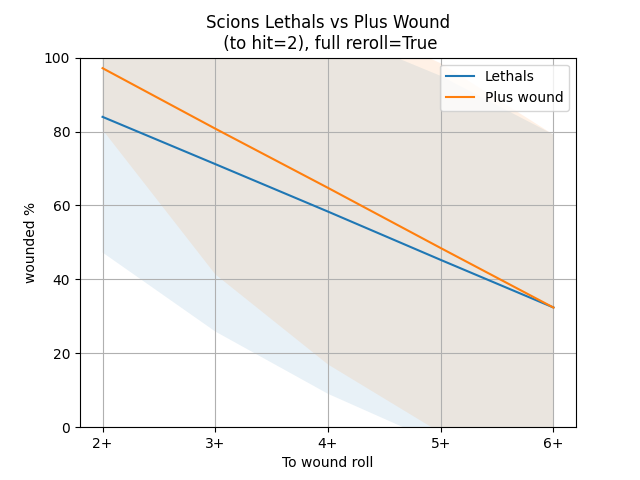
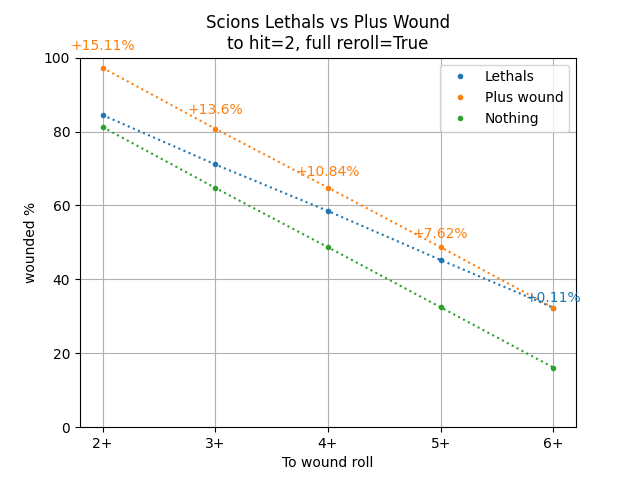
update letahls vs +wound

diff --git a/stats/src/lethal_vs_plus2wound.py b/stats/src/lethal_vs_plus2wound.py
@@ -19,11 +19,13 @@ if __name__ == '__main__' :
             
             all_lethal_cnt = []
             all_plus_wound_cnt = []
+            all_nothing_cnt = []
             
             for to_wound in to_wounds:
                 
                 lethal_cnt = []
                 plus_wound_cnt = []
+                nothing_cnt = []
                 
                 for n in range(N):
                     if full_reroll:
@@ -50,37 +52,59 @@ if __name__ == '__main__' :
                             plus_wound_cnt.append(1)
                         else:
                             plus_wound_cnt.append(0)
+                            
+                        if wound_roll >= to_wound:
+                            nothing_cnt.append(1)
+                        else:
+                            nothing_cnt.append(0)
                     else:
-                        plus_wound_cnt.append(0)
-                        #if hit_roll != 6:                            
+                        plus_wound_cnt.append(0)                                                 
                         lethal_cnt.append(0)
+                        nothing_cnt.append(0)
                                                                         
                             
                 all_lethal_cnt.append(lethal_cnt)
                 all_plus_wound_cnt.append(plus_wound_cnt)
-            
-            #print([len(a) for a in all_lethal_cnt])
-            #print([len(a) for a in all_plus_wound_cnt])
+                all_nothing_cnt.append(nothing_cnt)
+                        
             
             name = f"lethal_vs_plus_wound_{to_hit}_{full_reroll}"
             plt.figure(name)
-            plt.title(f"Scions Lethals vs Plus Wound\n (to hit={to_hit}), full reroll={full_reroll}")
+            plt.title(f"Scions Lethals vs Plus Wound\nto hit={to_hit}, full reroll={full_reroll}")
             
             all_lethal_cnt = np.array(all_lethal_cnt)
             all_plus_wound_cnt = np.array(all_plus_wound_cnt)
+            all_nothing_cnt = np.array(all_nothing_cnt)
             
             mean_lethals = np.mean(all_lethal_cnt, axis = 1)
-            mean_plus_wound = np.mean(all_plus_wound_cnt, axis = 1) 
+            mean_plus_wound = np.mean(all_plus_wound_cnt, axis = 1)
+            mean_nothing = np.mean(all_nothing_cnt, axis = 1)
             
             std_lethals = np.std(all_lethal_cnt, axis = 1)
             std_plus_wound = np.std(all_plus_wound_cnt, axis = 1)             
             
-            plt.plot(mean_lethals*100, label = "Lethals")
-            plt.plot(mean_plus_wound*100, label = "Plus wound")
+            r = range(0, len(to_wounds))            
+            
+            plt.plot(mean_lethals*100, '.', label = "Lethals", color = plt.get_cmap('tab10', 10)(0))
+            plt.plot(r, mean_lethals*100, linestyle = ':', color = plt.get_cmap('tab10', 10)(0))
+            
+            plt.plot(mean_plus_wound*100, '.', label = "Plus wound", color = plt.get_cmap('tab10', 10)(1))
+            plt.plot(r, mean_plus_wound*100, linestyle = ':', color = plt.get_cmap('tab10', 10)(1))
+            
+            plt.plot(mean_nothing*100, '.', label = "Nothing", color = plt.get_cmap('tab10', 10)(2))
+            plt.plot(r, mean_nothing*100, linestyle = ':', color = plt.get_cmap('tab10', 10)(2))
+            
+            for i, (lethal, plus_wound) in enumerate(zip(mean_lethals.tolist(), mean_plus_wound.tolist())):
+                if lethal > plus_wound:
+                    diff = (lethal-plus_wound) / plus_wound
+                    plt.text(i, lethal*105, f"+{round(diff*100,2)}%", color = plt.get_cmap('tab10', 10)(0), ha="center")
+                else:
+                    diff = (plus_wound-lethal) / lethal
+                    plt.text(i, plus_wound*105, f"+{round(diff*100,2)}%", color = plt.get_cmap('tab10', 10)(1), ha="center")    
             
             alpha = 0.1
-            plt.fill_between(range(0, len(to_wounds)), 100*(mean_lethals - std_lethals), 100*(mean_lethals + std_lethals), alpha = alpha)
-            plt.fill_between(range(0, len(to_wounds)), 100*(mean_plus_wound - std_plus_wound), 100*(mean_plus_wound + std_plus_wound), alpha = alpha)
+            #plt.fill_between(range(0, len(to_wounds)), 100*(mean_lethals - std_lethals), 100*(mean_lethals + std_lethals), alpha = alpha)
+            #plt.fill_between(range(0, len(to_wounds)), 100*(mean_plus_wound - std_plus_wound), 100*(mean_plus_wound + std_plus_wound), alpha = alpha)
             
             
             plt.grid()
